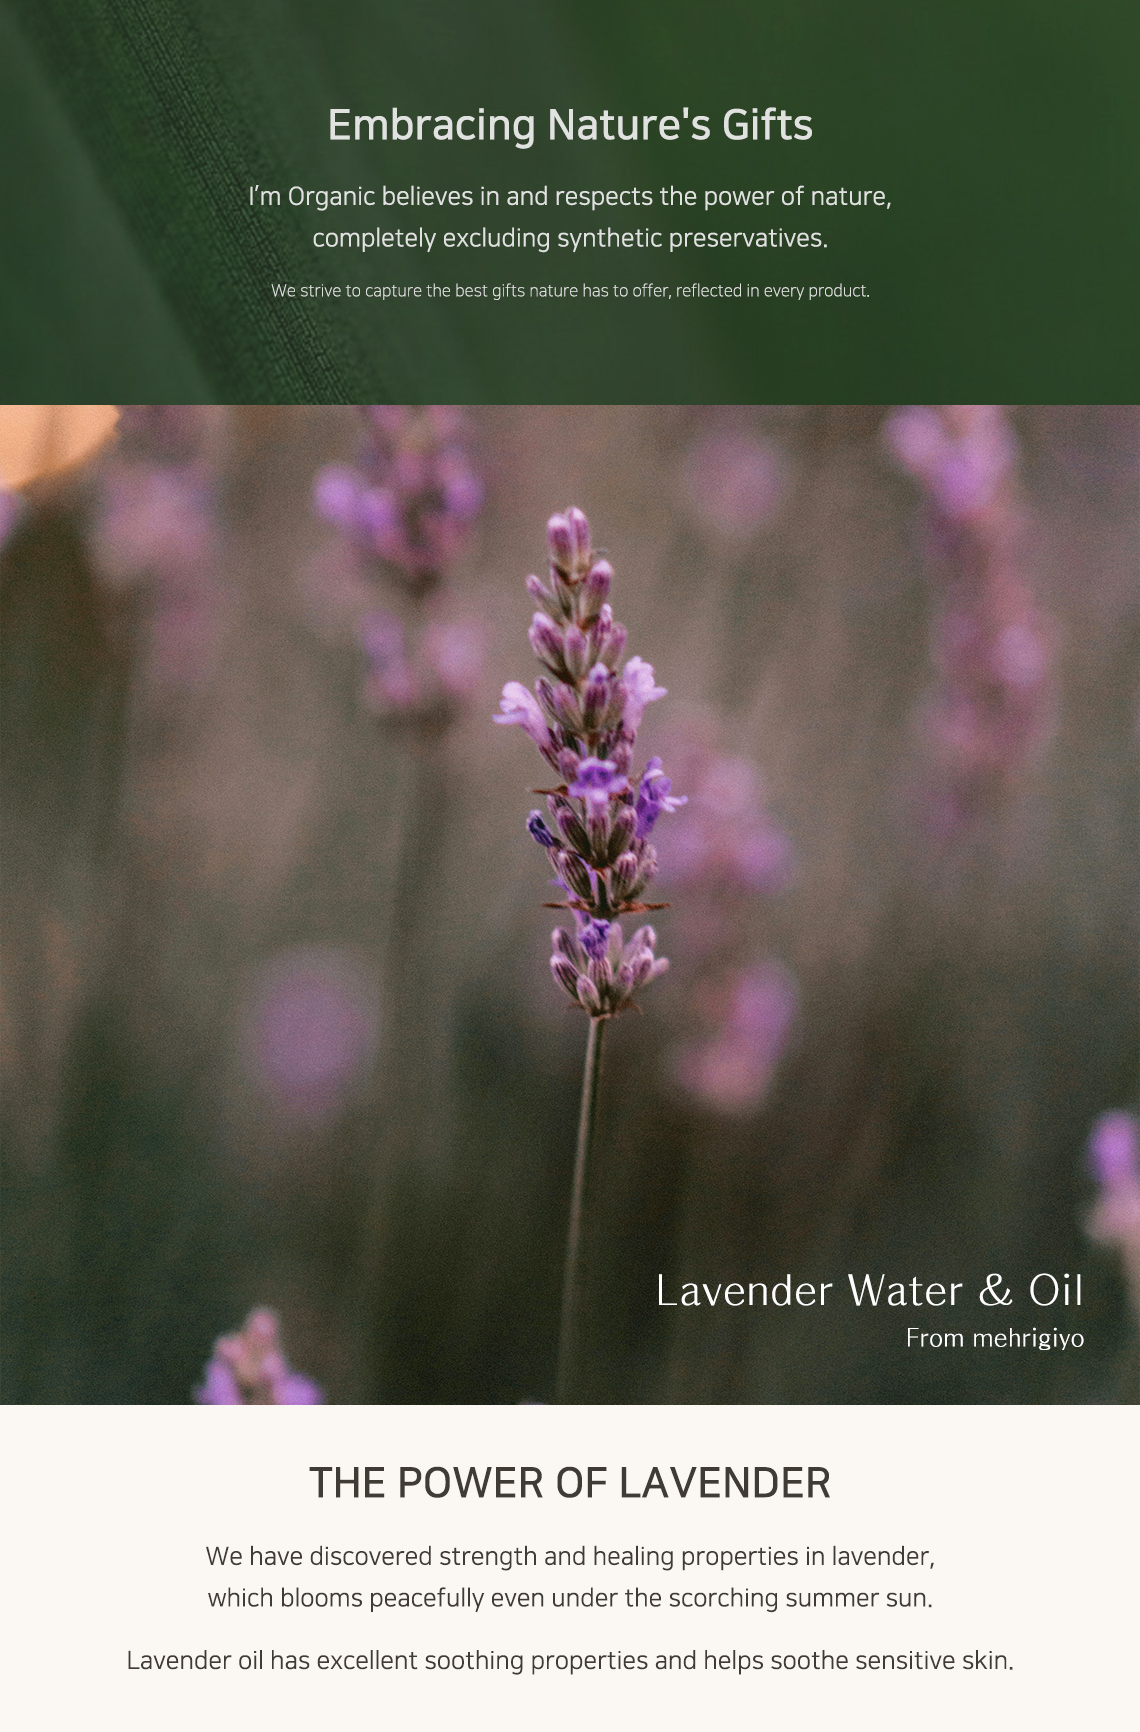
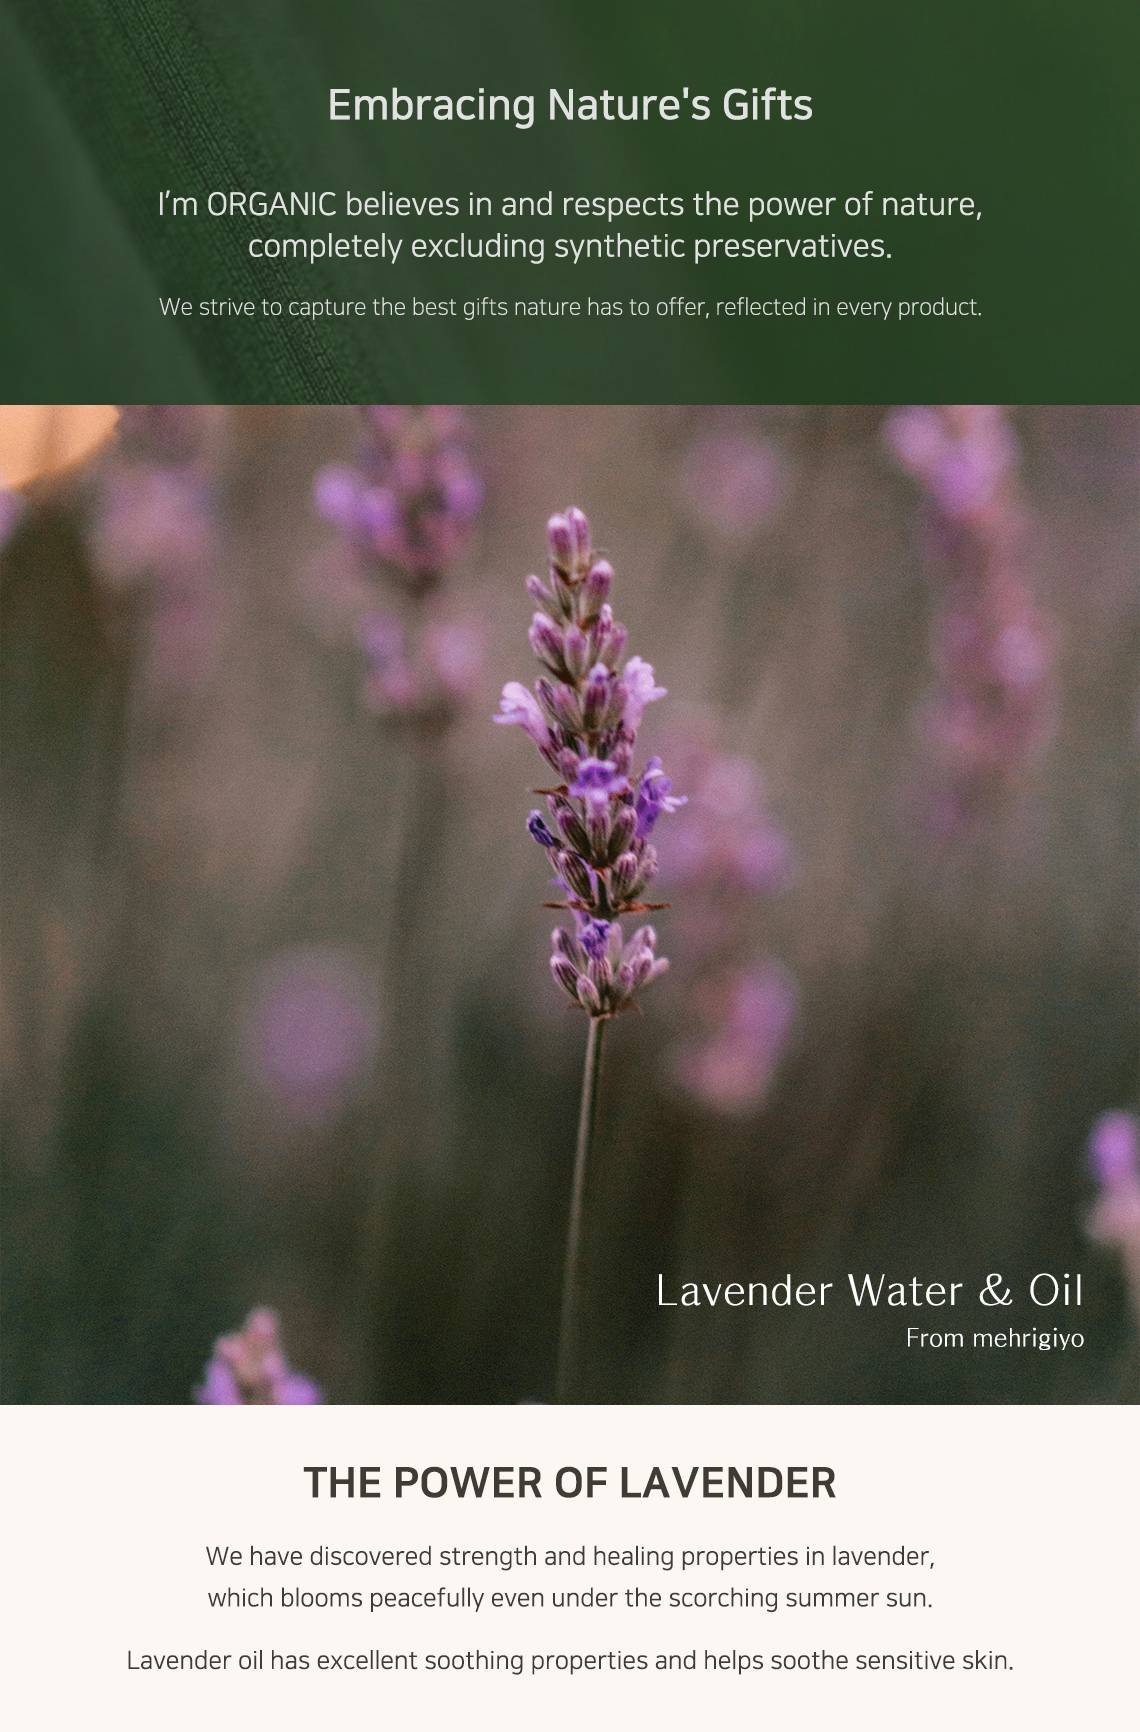
feat: All tasks up to now

diff --git a/src/layouts/StoreLayout.tsx b/src/layouts/StoreLayout.tsx
@@ -42,6 +42,7 @@ export const StoreLayout = ({ headerHeight }: Props) => {
 
   const dummyCategory1 = {
     img: '/images/store/1.png',
+    moImg: '/images/store/1-mo.jpeg',
     title: 'All',
     enTitle: 'All',
     description: '자연에서 온 순수함을 담다',
@@ -49,6 +50,7 @@ export const StoreLayout = ({ headerHeight }: Props) => {
   };
   const dummyCategory2 = {
     img: '/images/store/2.png',
+    moImg: '/images/store/1-mo.jpeg',
     title: '헤어케어 ',
     enTitle: 'Hair Care',
     description: '자연의 힘으로, 건강한 모발을',
@@ -56,6 +58,7 @@ export const StoreLayout = ({ headerHeight }: Props) => {
   };
   const dummyCategory3 = {
     img: '/images/store/3.png',
+    moImg: '/images/store/1-mo.jpeg',
     title: '스킨케어',
     enTitle: 'Skin Care',
     description: '건강한 피부를 위한 선택',
@@ -110,24 +113,48 @@ export const StoreLayout = ({ headerHeight }: Props) => {
       </p>
       <div className="content">
         <div className="left">
-          <div className="banner">
-            <ImageWithOverlay
-              img={dummyCategoryList[active].img}
-              leftTop={
-                <div className={`banner__text ${iShow ? 'show' : ''}`}>
-                  <p className="title">
-                    {locale === 'ko'
-                      ? dummyCategoryList[active].title
-                      : dummyCategoryList[active].enTitle}
-                  </p>
-                  <p className="description">
-                    {locale === 'ko'
-                      ? dummyCategoryList[active].description
-                      : dummyCategoryList[active].enDescription}
-                  </p>
-                </div>
-              }
-            />
+          <div className="pc">
+            <div className="banner">
+              <ImageWithOverlay
+                img={dummyCategoryList[active].img}
+                leftTop={
+                  <div className={`banner__text ${iShow ? 'show' : ''}`}>
+                    <p className="title">
+                      {locale === 'ko'
+                        ? dummyCategoryList[active].title
+                        : dummyCategoryList[active].enTitle}
+                    </p>
+                    <p className="description">
+                      {locale === 'ko'
+                        ? dummyCategoryList[active].description
+                        : dummyCategoryList[active].enDescription}
+                    </p>
+                  </div>
+                }
+              />
+            </div>
+          </div>
+
+          <div className="mo">
+            <div className="banner">
+              <ImageWithOverlay
+                img={dummyCategoryList[active].moImg}
+                leftTop={
+                  <div className={`banner__text ${iShow ? 'show' : ''}`}>
+                    <p className="title">
+                      {locale === 'ko'
+                        ? dummyCategoryList[active].title
+                        : dummyCategoryList[active].enTitle}
+                    </p>
+                    <p className="description">
+                      {locale === 'ko'
+                        ? dummyCategoryList[active].description
+                        : dummyCategoryList[active].enDescription}
+                    </p>
+                  </div>
+                }
+              />
+            </div>
           </div>
         </div>
         <div className="right">
@@ -162,6 +189,8 @@ const StoreLayoutStyle = styled.div<{
     color: #484036;
     font-size: 3.125rem;
     line-height: 3.625rem;
+
+    font-family: 'Oranienbaum-Regular', sans-serif;
   }
 
   .all {
@@ -183,6 +212,30 @@ const StoreLayoutStyle = styled.div<{
       width: 31.25%;
       height: ${({ $headerHeight }) =>
         $headerHeight && `calc(100vh - ${$headerHeight}px - 5rem)`};
+
+      .pc {
+        display: block;
+
+        width: 100%;
+        height: 100%;
+      }
+
+      .mo {
+        display: none;
+      }
+
+      @media (max-width: 960px) {
+        .pc {
+          display: none;
+        }
+
+        .mo {
+          display: block;
+
+          width: 100%;
+          height: 100%;
+        }
+      }
 
       .banner {
         position: relative;
@@ -265,6 +318,24 @@ const StoreLayoutStyle = styled.div<{
             color: #000;
           }
         }
+      }
+    }
+
+    @media (max-width: 960px) {
+      flex-direction: column;
+      gap: 0;
+
+      .left {
+        width: 100%;
+        height: 31.25rem;
+
+        margin-bottom: 2.6rem;
+      }
+
+      .right {
+        z-index: 5;
+
+        background-color: var(--content-main-color);
       }
     }
   }

diff --git a/src/contents/LavenderInteraction.tsx b/src/contents/LavenderInteraction.tsx
@@ -33,11 +33,11 @@ export const LavenderInteraction = ({ options }: Props) => {
           centerHorizontal
         >
           <div className="first">
-            <h1 className="title">LAVENDER</h1>
-            <h2 className="sub">
+            <h1 className="title fade move 1st">LAVENDER</h1>
+            <h2 className="sub fade move 1st">
               {locale === 'en' ? 'OUR FIRST NATURE' : '우리의 첫번째 자연,'}
             </h2>
-            <p className="description">
+            <p className="description fade move 2en">
               {locale === 'en' ? (
                 <>
                   We have discovered strength and healing properties in
@@ -65,10 +65,10 @@ export const LavenderInteraction = ({ options }: Props) => {
           centerHorizontal
         >
           <div className="second">
-            <h1 className="title">
+            <h1 className="title fade fade move 1st">
               {locale === 'en' ? 'The Power of Lavender' : '라벤더의 힘'}
             </h1>
-            <p className="description">
+            <p className="description fade move 2nd">
               {locale === 'en' ? (
                 <>
                   Lavender is an herb native to the Mediterranean region, named
@@ -91,7 +91,7 @@ export const LavenderInteraction = ({ options }: Props) => {
               )}
             </p>
 
-            <div className="item__list">
+            <div className="item__list fade move 3rd">
               <div className="item">
                 <div className="ellipse" />
                 <h2>BODY / SKIN</h2>
@@ -243,6 +243,20 @@ const LavenderInteractionStyled = styled.div`
 
     font-size: 3.75rem;
     font-family: 'NotoSansKR-Medium';
+
+    animation: shake 2s infinite;
+
+    @keyframes shake {
+      0% {
+        transform: translateX(-1rem);
+      }
+      50% {
+        transform: translateX(1rem);
+      }
+      100% {
+        transform: translateX(-1rem);
+      }
+    }
 
     cursor: pointer;
   }

diff --git a/src/components/GridImage.tsx b/src/components/GridImage.tsx
@@ -37,6 +37,14 @@ export const GridImage = ({ productList }: Props) => {
           <p className="title">{locale === 'ko' ? item.title : item.enTitle}</p>
         </div>
       ))}
+
+      {productList.length < 3 &&
+        Array.from({ length: 3 - productList.length }).map((_, index) => (
+          <div className="item empty" key={index}>
+            <div className="image"></div>
+            <p className="title"></p>
+          </div>
+        ))}
     </GridImageStyled>
   );
 };
@@ -44,14 +52,10 @@ export const GridImage = ({ productList }: Props) => {
 const GridImageStyled = styled.div`
   display: grid;
   grid-template-columns: repeat(3, 1fr);
-  gap: 6.25rem;
-
-  @media (max-width: 1200px) {
-    grid-template-columns: repeat(2, 1fr);
-  }
+  gap: 4rem;
 
   @media (max-width: 960px) {
-    grid-template-columns: repeat(1, 1fr);
+    grid-template-columns: repeat(2, 1fr);
   }
 
   .item {
@@ -60,13 +64,8 @@ const GridImageStyled = styled.div`
     .image {
       position: relative;
 
-      width: 31.25rem;
-      height: 40.625rem;
-
-      @media (max-width: 1200px) {
-        /* width: 100%;
-        height: 31.25rem; */
-      }
+      width: 24rem;
+      height: 31.25rem;
 
       @media (max-width: 960px) {
         width: 100%;
@@ -78,7 +77,12 @@ const GridImageStyled = styled.div`
       margin-top: 1.875rem;
       padding-left: 0.625rem;
 
-      font-size: 1.875rem;
+      font-size: 1.5rem;
+      font-family: 'NotoSansKR-Regular';
     }
+  }
+
+  .empty {
+    cursor: default;
   }
 `;

diff --git a/src/contents/Menu.tsx b/src/contents/Menu.tsx
@@ -15,14 +15,6 @@ export const Menu = ({ open, setOpen }: Props) => {
   const router = useRouter();
   const { locale } = router;
 
-  const [isMobile, setIsMobile] = useState(false);
-
-  useEffect(() => {
-    if (window.innerWidth <= 960) {
-      setIsMobile(true);
-    }
-  }, []);
-
   const [active, setActive] = useState(0);
 
   const menuList = [
@@ -45,11 +37,6 @@ export const Menu = ({ open, setOpen }: Props) => {
 
   return (
     <MenuStyled open={open} onClick={() => setOpen(!open)}>
-      {isMobile || (
-        <FixedChild bottom left>
-          <SnsList color="#929292" hoverColor="#484036" />
-        </FixedChild>
-      )}
       <div className="menu__list">
         {menuList.map((item, index) => (
           <div
@@ -84,7 +71,7 @@ const MenuStyled = styled.div<{
   width: 100%;
   height: 100%;
 
-  background-color: rgba(243, 240, 235, 0.85);
+  background-color: rgba(243, 240, 235, 0.95);
 
   .menu__list {
     display: flex;
@@ -114,6 +101,7 @@ const MenuStyled = styled.div<{
     @media (max-width: 960px) {
       .sns__list {
         margin-top: 3rem;
+
         .icon {
           svg {
             width: 3rem;

diff --git a/src/contents/ProductDetail.tsx b/src/contents/ProductDetail.tsx
@@ -526,11 +526,12 @@ const ProductDetailStyle = styled.div<{ $headerHeight: number }>`
     .sub__title {
       display: flex;
       justify-content: space-between;
+      align-items: center;
 
       margin-top: 1.25rem;
 
       p {
-        font-size: 1.125rem;
+        font-size: 1.5rem;
       }
 
       span {
@@ -590,6 +591,7 @@ const ProductDetailStyle = styled.div<{ $headerHeight: number }>`
 
       div {
         font-size: 1.125rem;
+        font-family: 'NotoSansKR-Regular';
       }
     }
   }

diff --git a/src/pages/brand/index.tsx b/src/pages/brand/index.tsx
@@ -336,6 +336,20 @@ const BrandPageStyled = styled.div`
     font-size: 3.75rem;
     font-family: 'NotoSansKR-Medium';
 
+    animation: shake 2s infinite;
+
+    @keyframes shake {
+      0% {
+        transform: translateX(-1rem);
+      }
+      50% {
+        transform: translateX(1rem);
+      }
+      100% {
+        transform: translateX(-1rem);
+      }
+    }
+
     cursor: pointer;
   }
 

diff --git a/src/contents/ProductDetailMobile.tsx b/src/contents/ProductDetailMobile.tsx
@@ -512,15 +512,16 @@ const ProductDetailMobileStyle = styled.div<{ $headerHeight: number }>`
     .sub__title {
       display: flex;
       justify-content: space-between;
+      align-items: center;
 
       margin-top: 1.25rem;
 
       p {
-        font-size: 1.125rem;
+        font-size: 2rem;
       }
 
       span {
-        font-size: 1.375rem;
+        font-size: 1.5rem;
       }
     }
 
